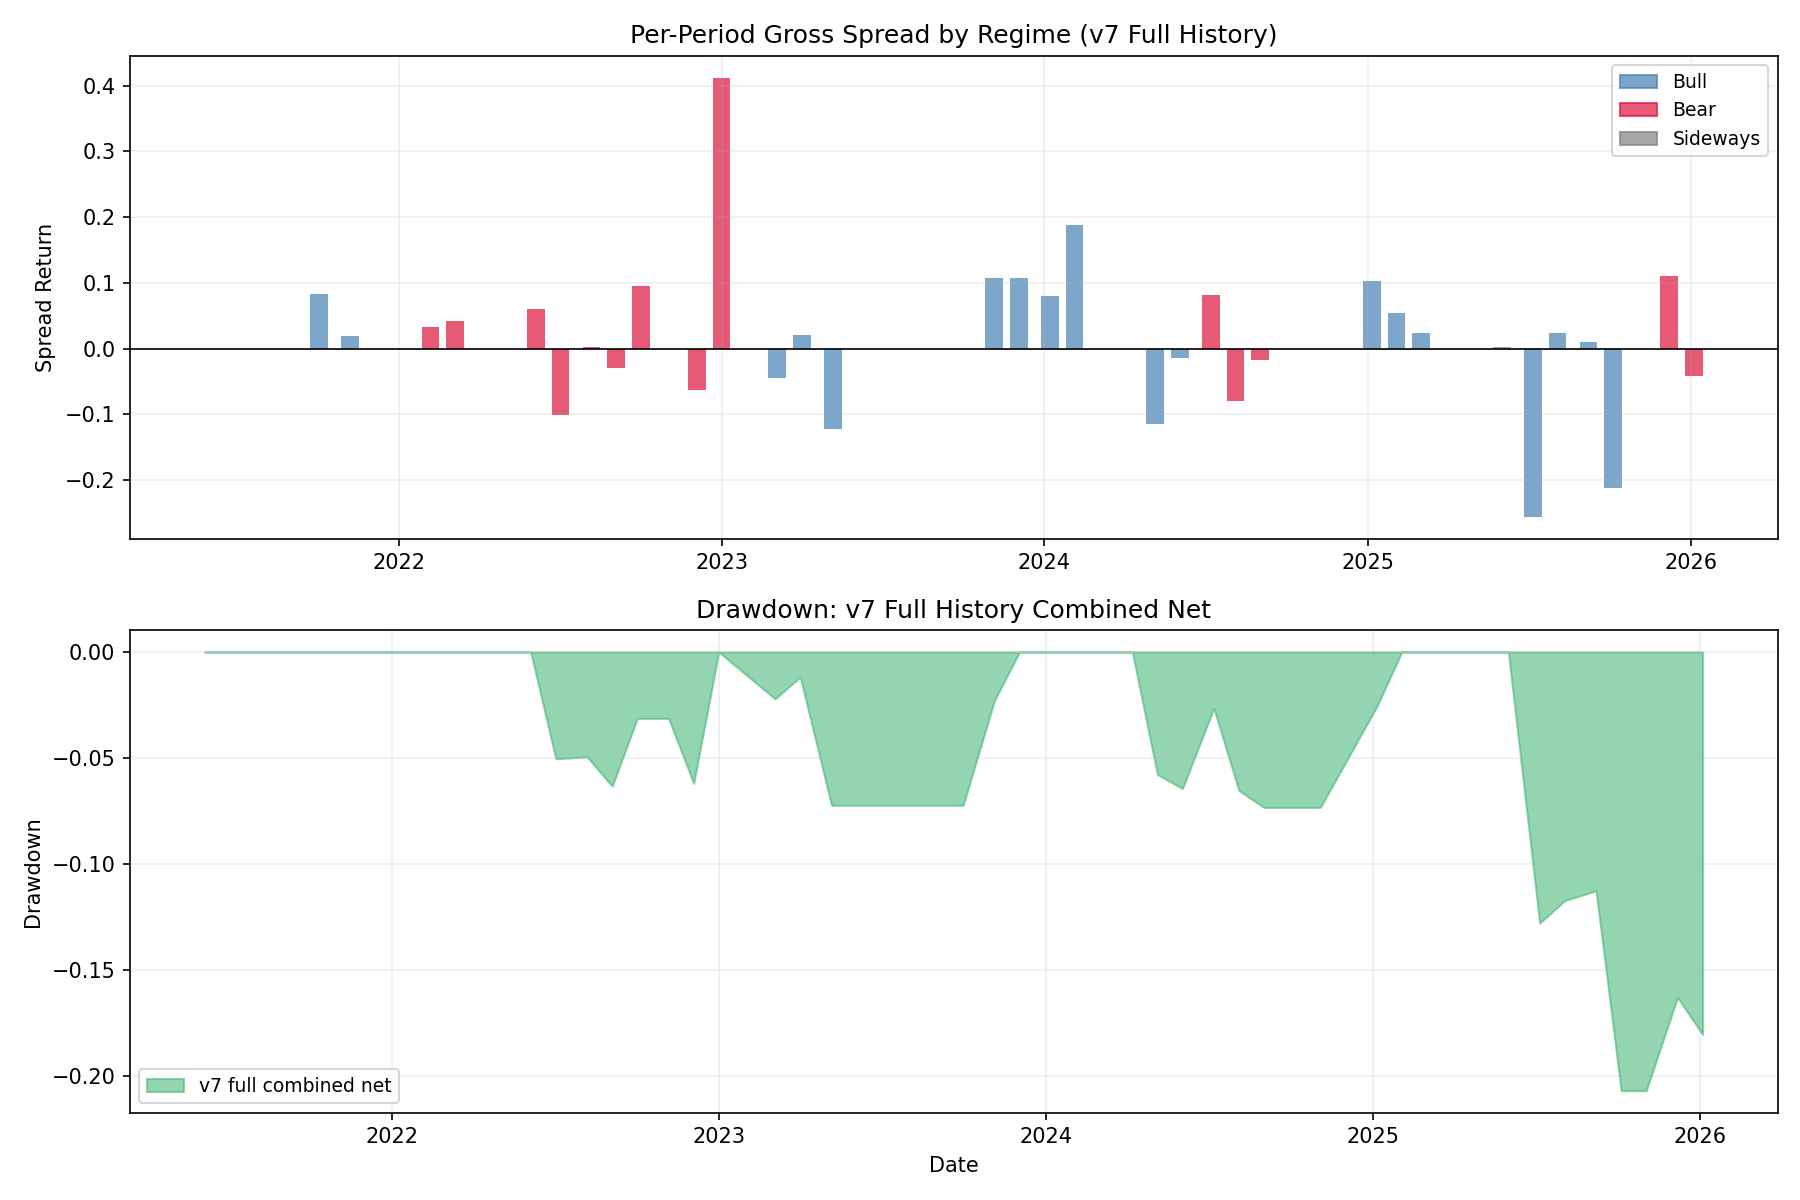
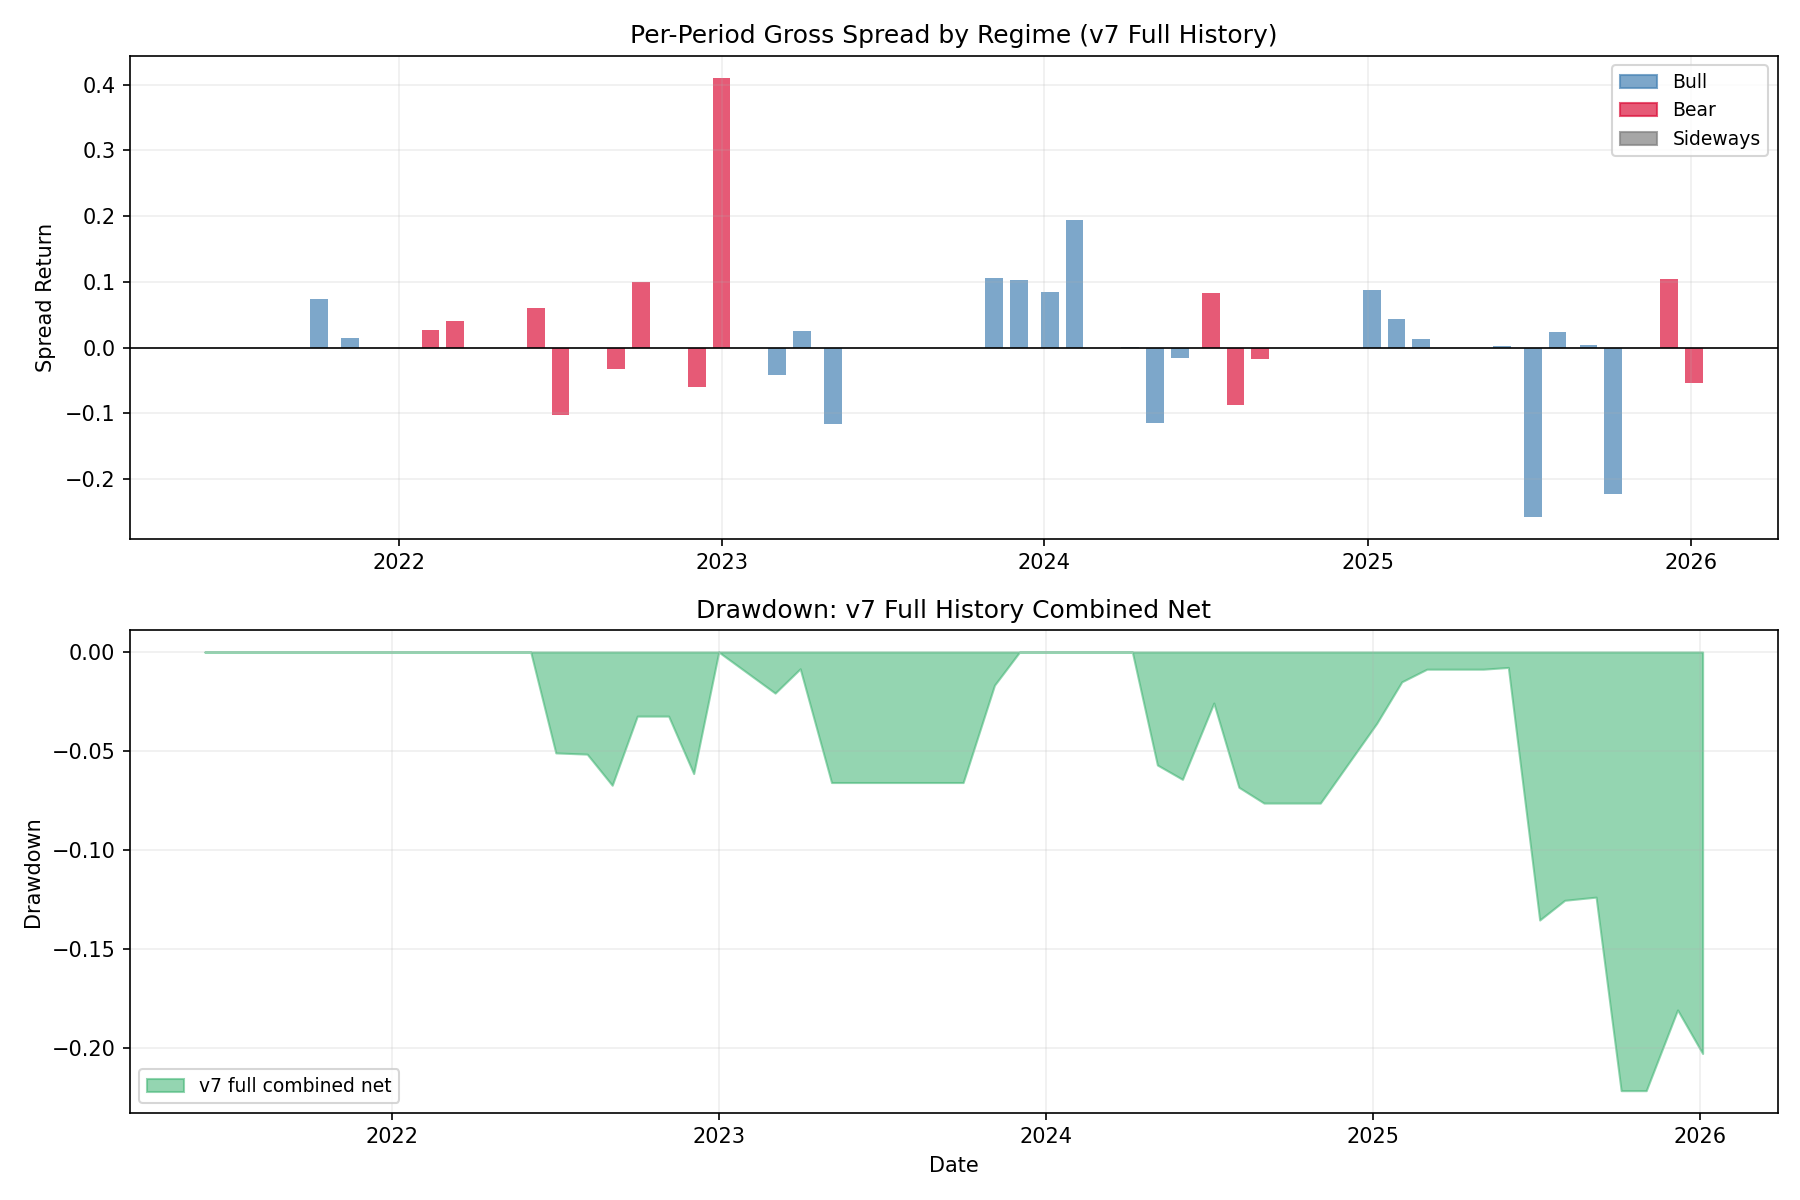
Replace CMC slippage with Binance USDT-M perp ADTV; add sensitivity analysis
Slippage model change (perpetual_ls_v7_full.py):
- Previously: SLIPPAGE_K / (CMC_volume_24h / market_cap) — aggregate spot
  volume across all exchanges, not instrument-specific
- Now: SLIPPAGE_K / (Binance_daily_ADTV / market_cap) where daily ADTV =
  Binance weekly quote_volume / 7 — exact instrument being traded
- Same K=0.0005, same MAX_SLIPPAGE=2%, same formula structure
- Date alignment verified: 320 overlapping dates (2020-01-12 to 2026-02-22),
  covers all 51 backtest periods with no gaps
- Report header and cost attribution section updated to label Binance source

Impact vs CMC model:
  Avg slippage/basket: 92 bps (CMC) -> 105 bps (Binance)  (+13 bps/period)
  Combined net ann.:  +4.76% (CMC) -> +3.77% (Binance)    (-0.99pp)
  Bear geo spread:   +41.8% (CMC) -> +37.8% (Binance)
  Bull geo spread:    -3.8% (CMC) ->  -6.9% (Binance)
  MaxDD:            -20.7% (CMC) -> -22.2% (Binance)

Add slippage_sensitivity.py:
  Sweeps SLIPPAGE_K at 0.25x/0.5x/1x/1.5x/2x/3x/5x of baseline
  Break-even at ~3x; strategy positive up to 2x baseline slippage

diff --git a/slippage_sensitivity.py b/slippage_sensitivity.py
@@ -1,0 +1,121 @@
+"""
+slippage_sensitivity.py
+=======================
+Re-runs the v7 full-history backtest across a range of SLIPPAGE_K multipliers
+to show how robust the strategy is to execution quality assumptions.
+
+Loads data once, then patches v7's SLIPPAGE_K constant before each run.
+"""
+import sys
+sys.stdout.reconfigure(encoding="utf-8")
+
+import numpy as np
+import pandas as pd
+
+import perpetual_ls_v7_full as v7
+
+# ---------------------------------------------------------------------------
+# Load all data once
+# ---------------------------------------------------------------------------
+print("Loading data...")
+df_raw = v7.load_cmc(v7.INPUT_FILE)
+(bn_price_piv, bn_adtv_piv, bn_tokv_piv,
+ bn_fund_raw, onboard_map) = v7.load_binance(v7.BN_DIR)
+regime_df = v7.build_regime(df_raw)
+print("Data loaded.\n")
+
+# ---------------------------------------------------------------------------
+# Sensitivity grid
+# ---------------------------------------------------------------------------
+BASE_K   = 0.0005          # baseline SLIPPAGE_K in v7
+BASE_MAX = 0.02            # MAX_SLIPPAGE stays fixed (prevents runaway values)
+
+MULTIPLIERS = [0.25, 0.50, 1.00, 1.50, 2.00, 3.00, 5.00]
+
+rows = []
+
+for mult in MULTIPLIERS:
+    # Patch module-level constants — engineer_features and run_backtest
+    # both read these from v7's global namespace at call time.
+    v7.SLIPPAGE_K   = BASE_K * mult
+
+    df = v7.engineer_features(df_raw.copy())
+    res = v7.run_backtest(df, regime_df,
+                          bn_price_piv, bn_adtv_piv, bn_tokv_piv,
+                          bn_fund_raw, onboard_map)
+
+    if not res["dates"]:
+        continue
+
+    cn  = res["combined_net"]
+    sn  = res["spread_net"]
+    st  = v7.portfolio_stats(cn)
+    regs = np.array(res["regime"])
+
+    # Regime-conditional net spread geo returns
+    def geo(series, mask):
+        sub = series.iloc[list(np.where(mask)[0])]
+        if len(sub) < 2:
+            return np.nan
+        cum = (1 + sub.clip(lower=-0.99)).prod()
+        return cum ** (12 / len(sub)) - 1
+
+    bull_geo = geo(sn, regs == "Bull")
+    bear_geo = geo(sn, regs == "Bear")
+
+    # Average per-period slippage (bps, active periods only)
+    active = [sc[0] > 0 or sc[1] > 0 for sc in res["scale"]]
+    sli_l = [v for v, m in zip(res.get("slip_actual_long",  []), active) if m]
+    sli_s = [v for v, m in zip(res.get("slip_actual_short", []), active) if m]
+    avg_slip_bps = (np.mean(sli_l) + np.mean(sli_s)) * 10000 if sli_l else np.nan
+
+    rows.append(dict(
+        mult        = mult,
+        slip_k_bps  = BASE_K * mult * 10000,
+        avg_slip_bps= avg_slip_bps,
+        ann_ret     = st["ann_return"],
+        vol         = st["vol"],
+        sharpe      = st["sharpe"],
+        max_dd      = st["max_dd"],
+        win_rate    = (sn > 0).mean(),
+        mean_spread = sn.mean(),
+        bull_geo    = bull_geo,
+        bear_geo    = bear_geo,
+    ))
+    print(f"  SLIPPAGE_K={BASE_K*mult:.5f} ({mult:.2f}x) done  |  "
+          f"Ann.Ret {st['ann_return']:+.2%}  Sharpe {st['sharpe']:+.3f}")
+
+# Restore baseline
+v7.SLIPPAGE_K = BASE_K
+
+# ---------------------------------------------------------------------------
+# Print results table
+# ---------------------------------------------------------------------------
+print()
+print("=" * 100)
+print("SLIPPAGE SENSITIVITY ANALYSIS  —  v7 Full History")
+print("  Fixed: MAX_SLIPPAGE=2%, all other parameters unchanged")
+print("=" * 100)
+print(f"\n  {'Mult':>6}  {'K (bps)':>8}  {'Avg slip':>9}  {'Ann.Ret':>9}  "
+      f"{'Vol':>8}  {'Sharpe':>8}  {'MaxDD':>9}  {'WinRate':>8}  "
+      f"{'MnSpread':>9}  {'Bull geo':>9}  {'Bear geo':>9}")
+print("  " + "-" * 96)
+for r in rows:
+    marker = " <-- baseline" if r["mult"] == 1.0 else ""
+    print(f"  {r['mult']:>5.2f}x  {r['slip_k_bps']:>7.1f}bp  "
+          f"{r['avg_slip_bps']:>8.0f}bp  "
+          f"{r['ann_ret']:>+8.2%}  {r['vol']:>+7.2%}  "
+          f"{r['sharpe']:>+8.3f}  {r['max_dd']:>+8.2%}  "
+          f"{r['win_rate']:>7.1%}  {r['mean_spread']:>+8.2%}  "
+          f"{r['bull_geo']:>+8.2%}  {r['bear_geo']:>+8.2%}{marker}")
+
+print()
+# Break-even analysis
+base_ret = next(r["ann_ret"] for r in rows if r["mult"] == 1.0)
+print("  Break-even analysis (combined net ann. return):")
+for r in rows:
+    delta = r["ann_ret"] - base_ret
+    status = "POSITIVE" if r["ann_ret"] > 0 else "NEGATIVE"
+    print(f"    {r['mult']:.2f}x  ->  {r['ann_ret']:+.2%}  ({delta:+.2%} vs baseline)  [{status}]")
+
+print("=" * 100)

diff --git a/perpetual_ls_v7_full.py b/perpetual_ls_v7_full.py
@@ -413,8 +413,31 @@ def run_backtest(df: pd.DataFrame, regime_df: pd.DataFrame,
 
     price_piv_cmc = df.pivot_table(index="snapshot_date", columns="symbol",
                                    values="price", aggfunc="last")
-    slip_piv = df.pivot_table(index="snapshot_date", columns="symbol",
-                              values="slippage", aggfunc="last")
+
+    # ------------------------------------------------------------------
+    # Slippage pivot — Binance USDT-M perp ADTV (replaces CMC spot volume)
+    #
+    # bn_adtv_piv holds weekly USD quote_volume from Binance USDT-M perps,
+    # indexed by cmc_date (= week_start + 6 days), which aligns 1-for-1
+    # with CMC snapshot_date (confirmed: 320 overlapping dates, 2020-01-12
+    # through 2026-02-22, covering all 51 backtest periods).
+    #
+    # Formula kept identical to CMC model so K is directly comparable:
+    #   slippage = SLIPPAGE_K / (binance_daily_adtv / market_cap)
+    #            = SLIPPAGE_K / binance_turnover_rate
+    #
+    # Binance perp volume is the exact instrument being traded; using it
+    # gives a more realistic liquidity estimate than CMC aggregate spot.
+    # ------------------------------------------------------------------
+    mcap_piv      = df.pivot_table(index="snapshot_date", columns="symbol",
+                                   values="market_cap", aggfunc="last")
+    bn_daily_adtv = bn_adtv_piv / 7.0   # weekly USD quote_volume → daily
+
+    common_bn_dates = bn_daily_adtv.index.intersection(mcap_piv.index)
+    bn_turn  = (bn_daily_adtv.loc[common_bn_dates]
+                .div(mcap_piv.loc[common_bn_dates].clip(lower=1e6))
+                .clip(lower=MIN_TURNOVER))
+    slip_piv = (SLIPPAGE_K / bn_turn).clip(upper=MAX_SLIPPAGE)
 
     # Altseason pre-computation (unchanged from v4/v6)
     altseason_map = {}
@@ -792,6 +815,7 @@ def print_report(res: dict) -> None:
     print("  Signal : 50% rank(13w) + 50% rank(52w), winsorised 2-98pct")
     print("  Prices : Binance USDT-M weekly perp close")
     print("  Funding: Actual 8h Binance funding rates")
+    print("  Slip   : Binance USDT-M perp ADTV (daily = weekly / 7), NOT CMC spot")
     print("  Rebal  : Monthly always (no regime-aware stepping)")
     print("  Regime : Sideways=cash | Bull=(0.75L, 0.75S) symmetric | Bear=(0.75L, 0.75S)")
     print("  Shorts : Momentum veto (top-50pct 1m return within candidate pool excluded)")
@@ -887,6 +911,7 @@ def print_report(res: dict) -> None:
     ann_drag   = (1 + total_drag) ** (12 / max(n, 1)) - 1
 
     print(f"\n  --- Full Cost Attribution (net vs gross) ---")
+    print(f"  [Slippage source: Binance USDT-M perp daily ADTV — same K={SLIPPAGE_K}, same formula]")
     print(f"  {'Component':<34} {'Avg/period (bps)':>18} {'Cumulative':>12}")
     print(f"  {'-'*66}")
     print(f"  {'Fee drag — long  (turnover-adj)':<34} {avg_fee_l*10000:>+16.1f}   {cum_fee_l:>+10.4f}")
